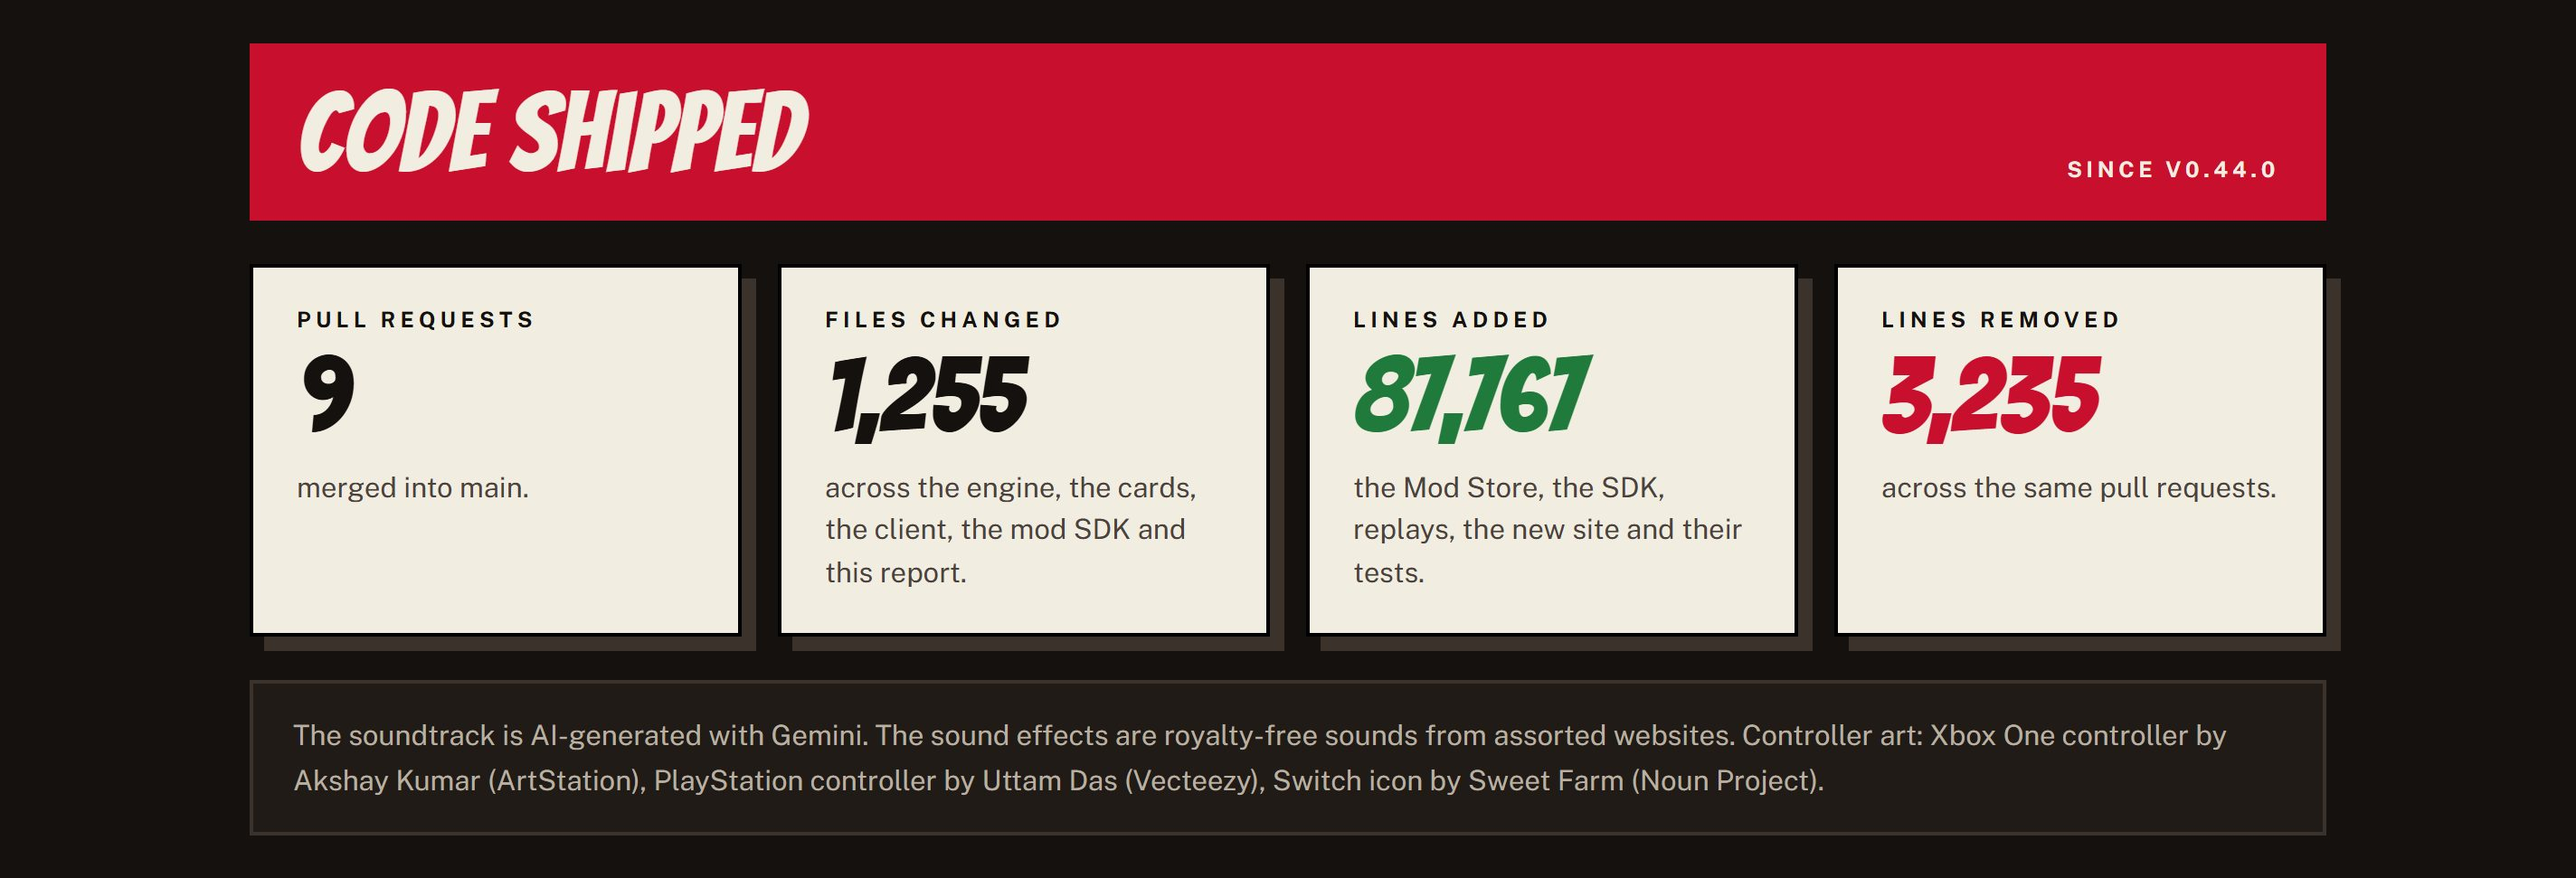
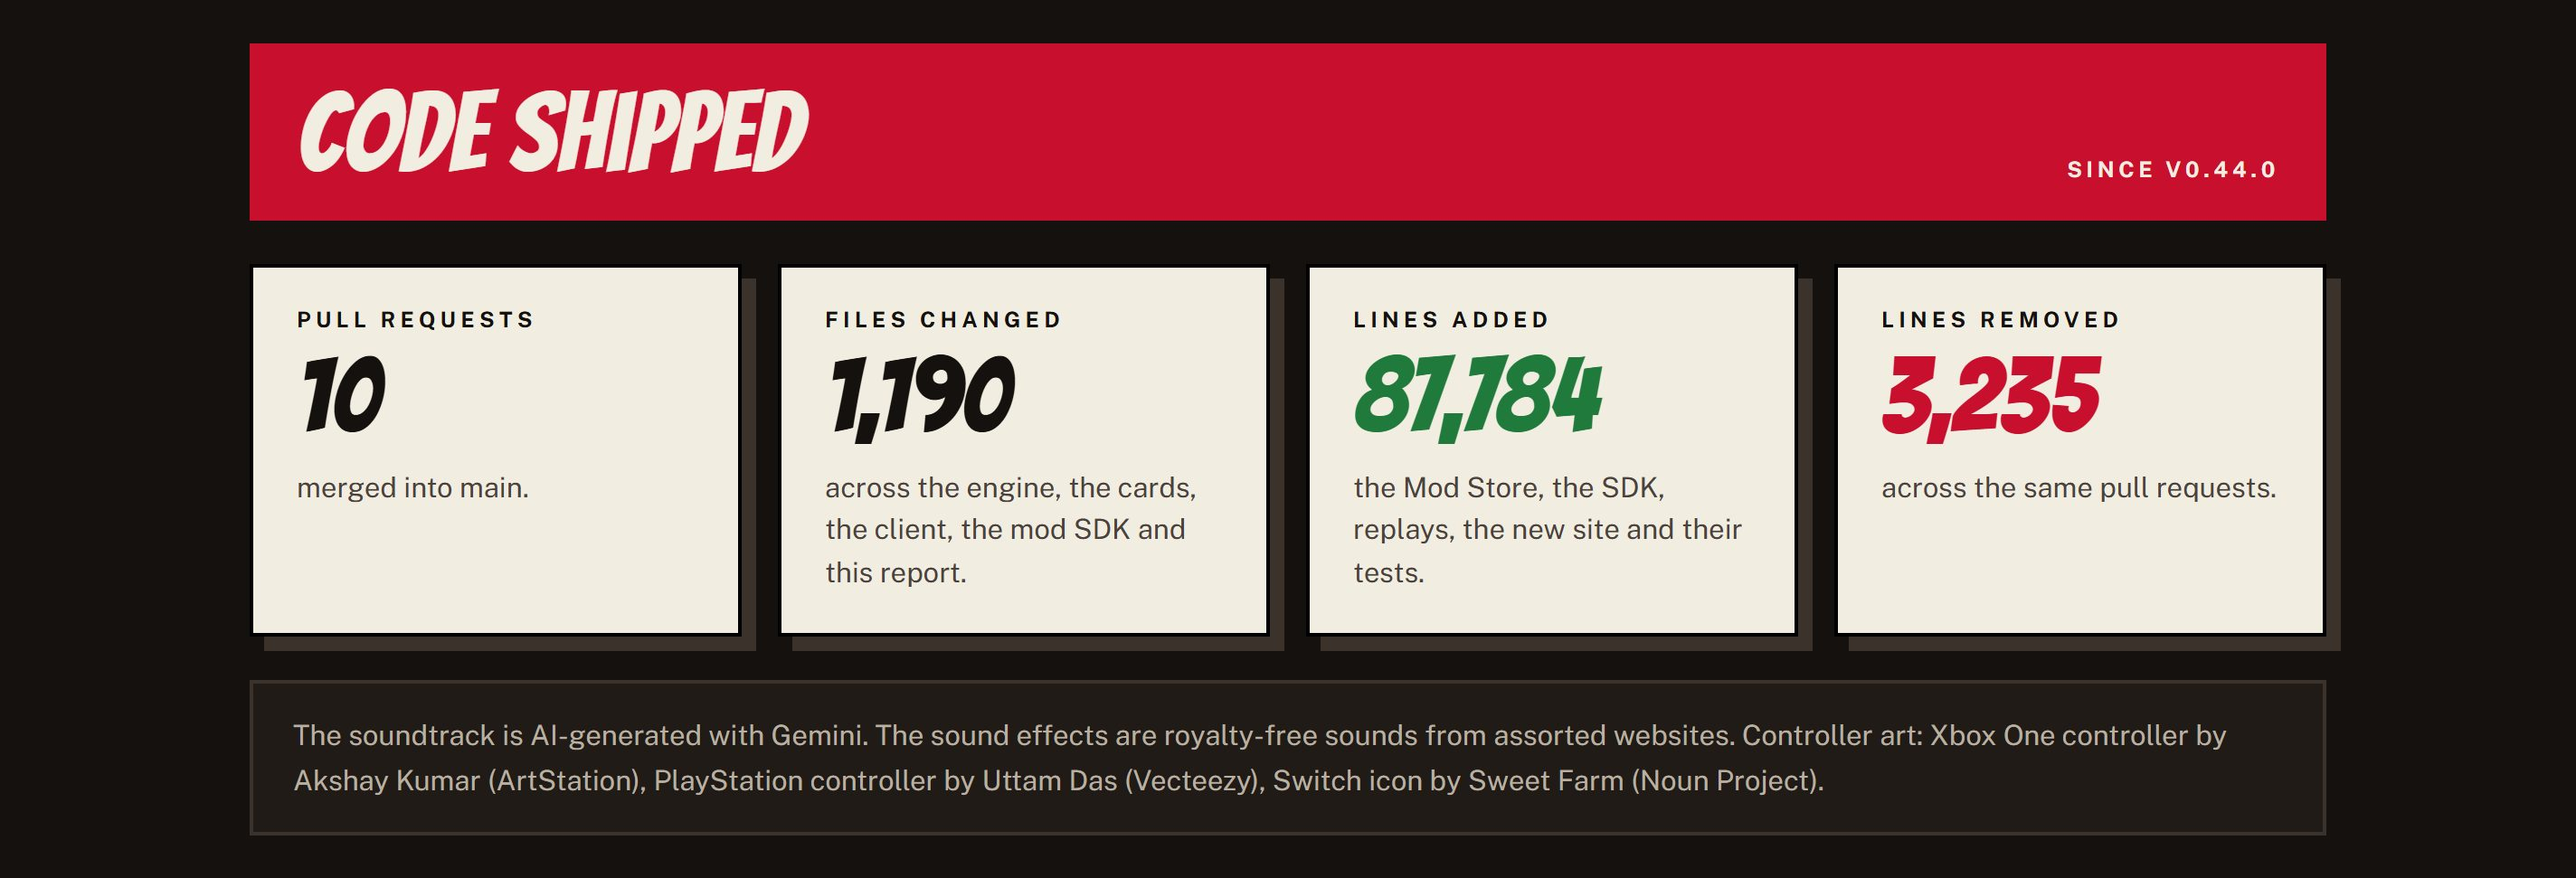
Count #703 in the v0.45.0 report's Code shipped

Changed region(s): [[0.3438, 0.4016, 0.4062, 0.4943], [0.5625, 0.4016, 0.625, 0.4943], [0.0938, 0.4016, 0.1562, 0.4943]]

diff --git a/packages/client/public/releases/v0.45.0/index.html b/packages/client/public/releases/v0.45.0/index.html
@@ -931,17 +931,17 @@
       <section class="stats" aria-label="Code shipped since v0.44.0">
         <div class="tile">
           <h4>Pull requests</h4>
-          <div class="n">9</div>
+          <div class="n">10</div>
           <p>merged into main.</p>
         </div>
         <div class="tile">
           <h4>Files changed</h4>
-          <div class="n">1,255</div>
+          <div class="n">1,190</div>
           <p>across the engine, the cards, the client, the mod SDK and this report.</p>
         </div>
         <div class="tile">
           <h4>Lines added</h4>
-          <div class="n c-green">87,767</div>
+          <div class="n c-green">87,784</div>
           <p>the Mod Store, the SDK, replays, the new site and their tests.</p>
         </div>
         <div class="tile">
